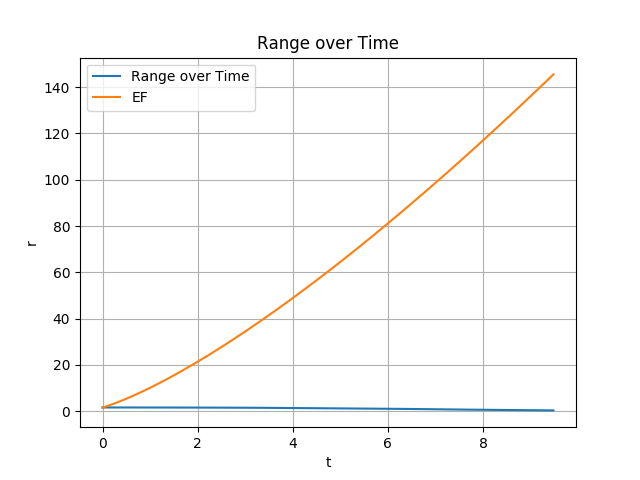
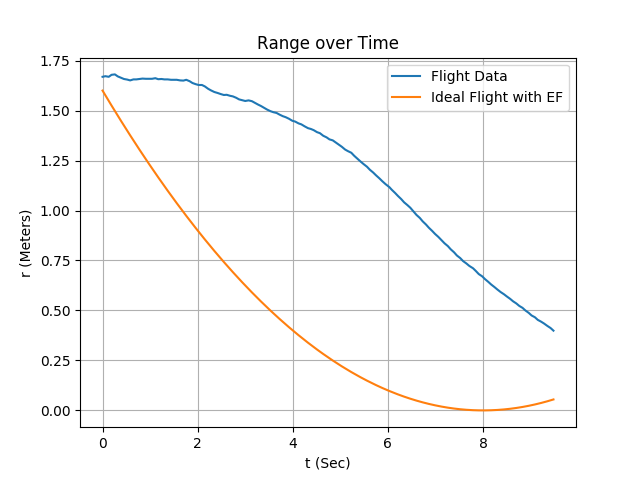
Finished GraphTesting and fixed global time

diff --git a/GraphTesting.py b/GraphTesting.py
@@ -1,27 +1,36 @@
 import matplotlib.pyplot as plt
 import csv
 import pandas
+import datetime
 
 # Plotting data with MatPlotLib
 x = []
 y = []
+currentTime = datetime.datetime.now()
 
+# Get most recent csv
 df = pandas.read_csv('recentNOBuff.csv')
 
-v0 = 0.4
-tau_dot = 0.75
+
+# Initialize variables
+v0 = -0.4
+tau_dot = 0.5
 r0 = 1.6
 
+# Get ideal data
 x=df["t"]-1554753711.83
 y=df["r"]
-x2 = x
-y2 = r0 * pow((1+(tau_dot*r0/v0*x2)), 1/tau_dot)
+yIdeal = r0 * pow((1+((tau_dot*v0*x)/r0)), 1/tau_dot)
 
-plt.plot(x,y, label='Range over Time')
-plt.plot(x2,y2, label='EF')
+# Plot both lines
+plt.plot(x,y, label='Flight Data')
+plt.plot(x,yIdeal, label='Ideal Flight with EF')
 plt.legend()
 plt.grid()
-plt.xlabel('t')
-plt.ylabel('r')
-plt.title('Range over Time')
-plt.savefig("Test")
+plt.xlabel('Time (s)')
+plt.ylabel('Range (m)')
+plt.title('Range vs. Time')
+
+# Save file to FlightGraphs folder
+fileName = "{}{}".format("FlightGraphs/FlightGraph_", currentTime.strftime("%Y-%m-%d-%H:%M"))
+plt.savefig(fileName)

diff --git a/echoic-flow-no-buf.py b/echoic-flow-no-buf.py
@@ -292,11 +292,12 @@ count = 0
 f.write("stage\tr\tt\tr_filt\tv\ttau\tv_need\ta_need\tcmnd\tmarker\n")
 ndc = drone.NavDataCount
 loop = True
+startClock = time.time()
 while loop:
 	while ndc == drone.NavDataCount:
 		time.sleep(0.001)
 	current_range = (drone.NavData["demo"][3]/100)-stop_height
-	current_time = time.time()
+	current_time = time.time() - startClock
 	if stage == 'up':
 		FlyToHeight(current_range, current_time)
 	elif stage == 'pause':
